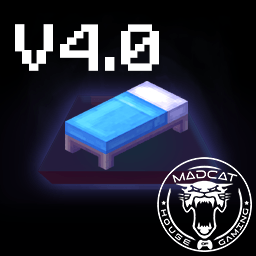
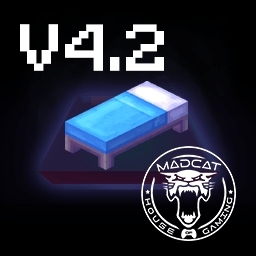
Release 4.2
- Added sleeping messages, there is a total of 22
- Changed text colors to use the new 1.16 hex format

Changed region(s): [[0.5312, 0.5625, 1.0, 1.0], [0.0312, 0.0938, 0.6562, 0.2812]]

diff --git a/README.md b/README.md
@@ -22,8 +22,12 @@ Some of the features include:
   - Removed references to old data packs and scoreboards
   - Updated meta data for the new data pack browser introduced in Minecraft 1.16 
 
-## Version 4.1 Changelod:
-  - 
+## Version 4.1 Changelog:
+  - Fixed predicate to consider clearing regular rain, it was only clearing storms
+
+## Version 4.1 Changelog:
+  - Added more sleeping messages! (Suggested by DrathMorg)
+  - Changed sleeping color message
 
 # More resources
 A download list of [Minecraft 1.16 Data Packs][dplist] where this is included
